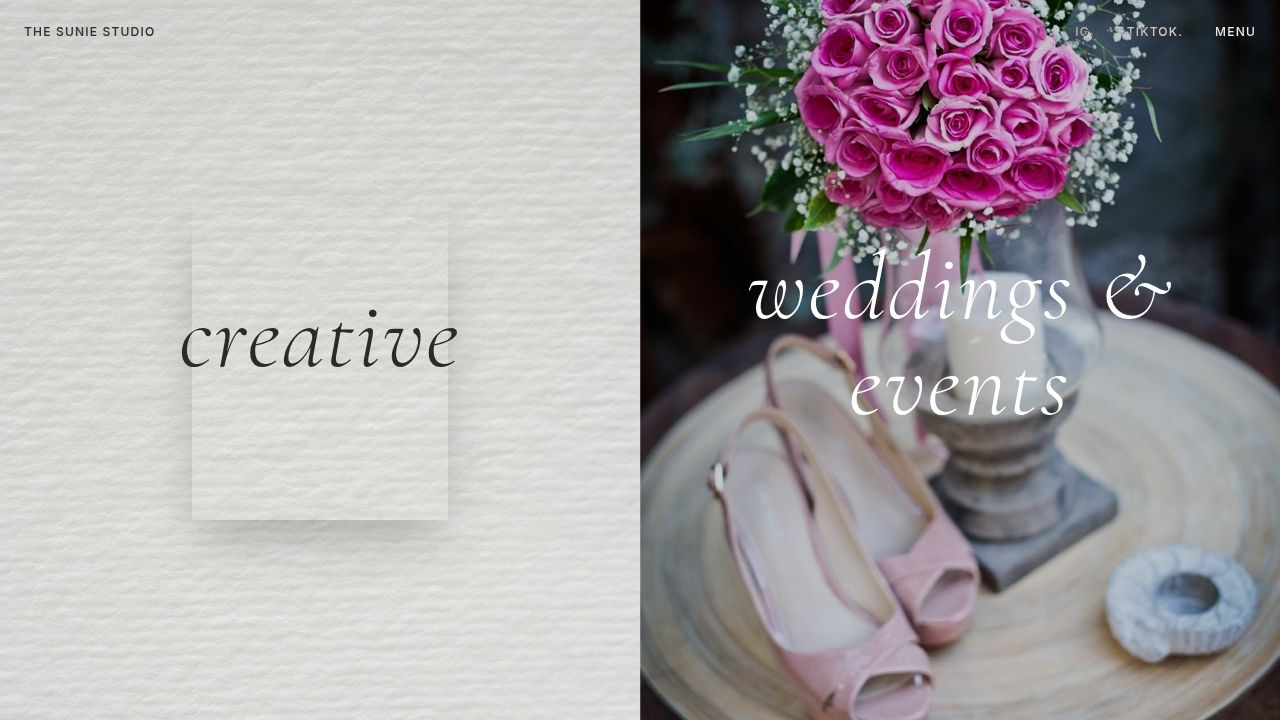
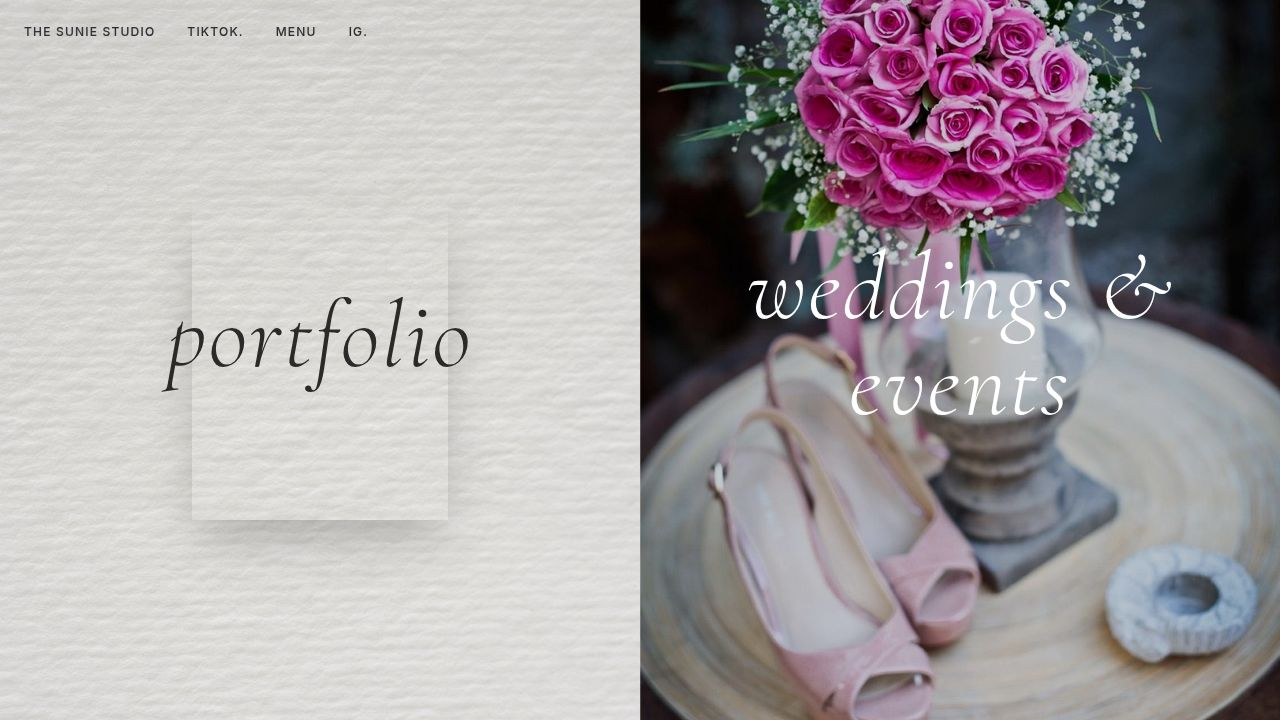
Update header navigation and portfolio carousel interactions
Add `embla-carousel-wheel-gestures` package and configure carousel for mouse wheel scrolling in the Portfolio page. Adjust header navigation to group logo, TikTok, menu, and Instagram links on the left.

Replit-Commit-Author: Agent
Replit-Commit-Session-Id: 4e93c966-2f84-45c7-90af-e06c5316aa08
Replit-Commit-Checkpoint-Type: full_checkpoint
Replit-Commit-Event-Id: 64717ba5-2193-410f-a66d-1cf77124148a
Replit-Commit-Screenshot-Url: https://storage.googleapis.com/screenshot-production-us-central1/923529bd-e315-4c02-bc26-52937843947b/4e93c966-2f84-45c7-90af-e06c5316aa08/Cs5FBxc
Replit-Helium-Checkpoint-Created: true

diff --git a/client/src/components/Navigation.tsx b/client/src/components/Navigation.tsx
@@ -9,32 +9,34 @@ export function Navigation() {
     <>
       {/* Desktop Navigation */}
       <nav className="fixed top-0 left-0 right-0 z-50 p-6 flex justify-between items-center mix-blend-difference text-white uppercase text-xs tracking-widest font-medium">
-        <Link href="/" className="hover:opacity-70 transition-opacity">
-          The Sunie Studio
-        </Link>
-        <div className="flex gap-8">
-          <a
-            href="https://www.instagram.com/thesuniestudio/?hl=en"
-            target="_blank"
-            rel="noreferrer"
-            className="hover:opacity-70 transition-opacity"
-          >
-            IG.
-          </a>
-          <a
-            href="https://www.tiktok.com/@onthedaysocials"
-            target="_blank"
-            rel="noreferrer"
-            className="hover:opacity-70 transition-opacity"
-          >
-            TIKTOK.
-          </a>
-          <button
-            onClick={() => setIsOpen(true)}
-            className="hover:opacity-70 transition-opacity uppercase"
-          >
-            Menu
-          </button>
+        <div className="flex items-center gap-8">
+          <Link href="/" className="hover:opacity-70 transition-opacity">
+            The Sunie Studio
+          </Link>
+          <div className="flex gap-8">
+            <a
+              href="https://www.tiktok.com/@onthedaysocials"
+              target="_blank"
+              rel="noreferrer"
+              className="hover:opacity-70 transition-opacity"
+            >
+              TIKTOK.
+            </a>
+            <button
+              onClick={() => setIsOpen(true)}
+              className="hover:opacity-70 transition-opacity uppercase"
+            >
+              Menu
+            </button>
+            <a
+              href="https://www.instagram.com/thesuniestudio/?hl=en"
+              target="_blank"
+              rel="noreferrer"
+              className="hover:opacity-70 transition-opacity"
+            >
+              IG.
+            </a>
+          </div>
         </div>
       </nav>
 

diff --git a/client/src/pages/Portfolio.tsx b/client/src/pages/Portfolio.tsx
@@ -7,6 +7,7 @@ import {
   CarouselNext,
   CarouselPrevious,
 } from "@/components/ui/carousel";
+import { WheelGesturesPlugin } from "embla-carousel-wheel-gestures";
 import carousel1 from "@/assets/images/carousel-1.jpg";
 import carousel2 from "@/assets/images/carousel-2.jpg";
 import carousel3 from "@/assets/images/carousel-3.jpg";
@@ -112,7 +113,9 @@ export default function Portfolio() {
               opts={{
                 align: "start",
                 loop: true,
+                dragFree: true,
               }}
+              plugins={[WheelGesturesPlugin()]}
               className="w-full"
             >
               <CarouselContent className="-ml-4">

diff --git a/client/src/components/ui/carousel.tsx b/client/src/components/ui/carousel.tsx
@@ -3,6 +3,7 @@ import useEmblaCarousel, {
   type UseEmblaCarouselType,
 } from "embla-carousel-react"
 import { ArrowLeft, ArrowRight } from "lucide-react"
+import { wheelGestures } from "embla-carousel-wheel-gestures"
 
 import { cn } from "@/lib/utils"
 import { Button } from "@/components/ui/button"
